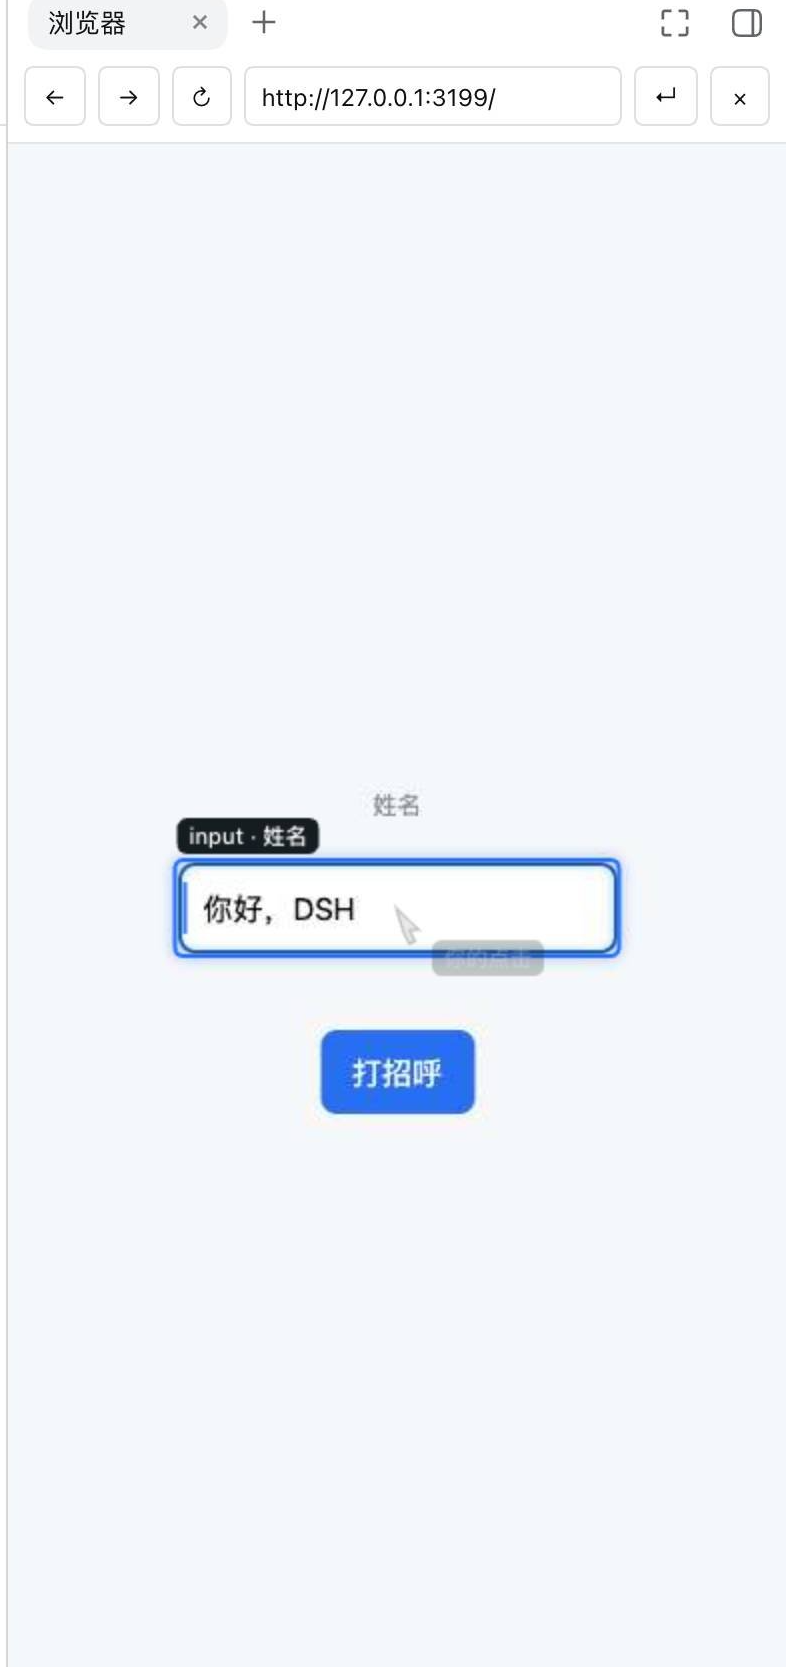
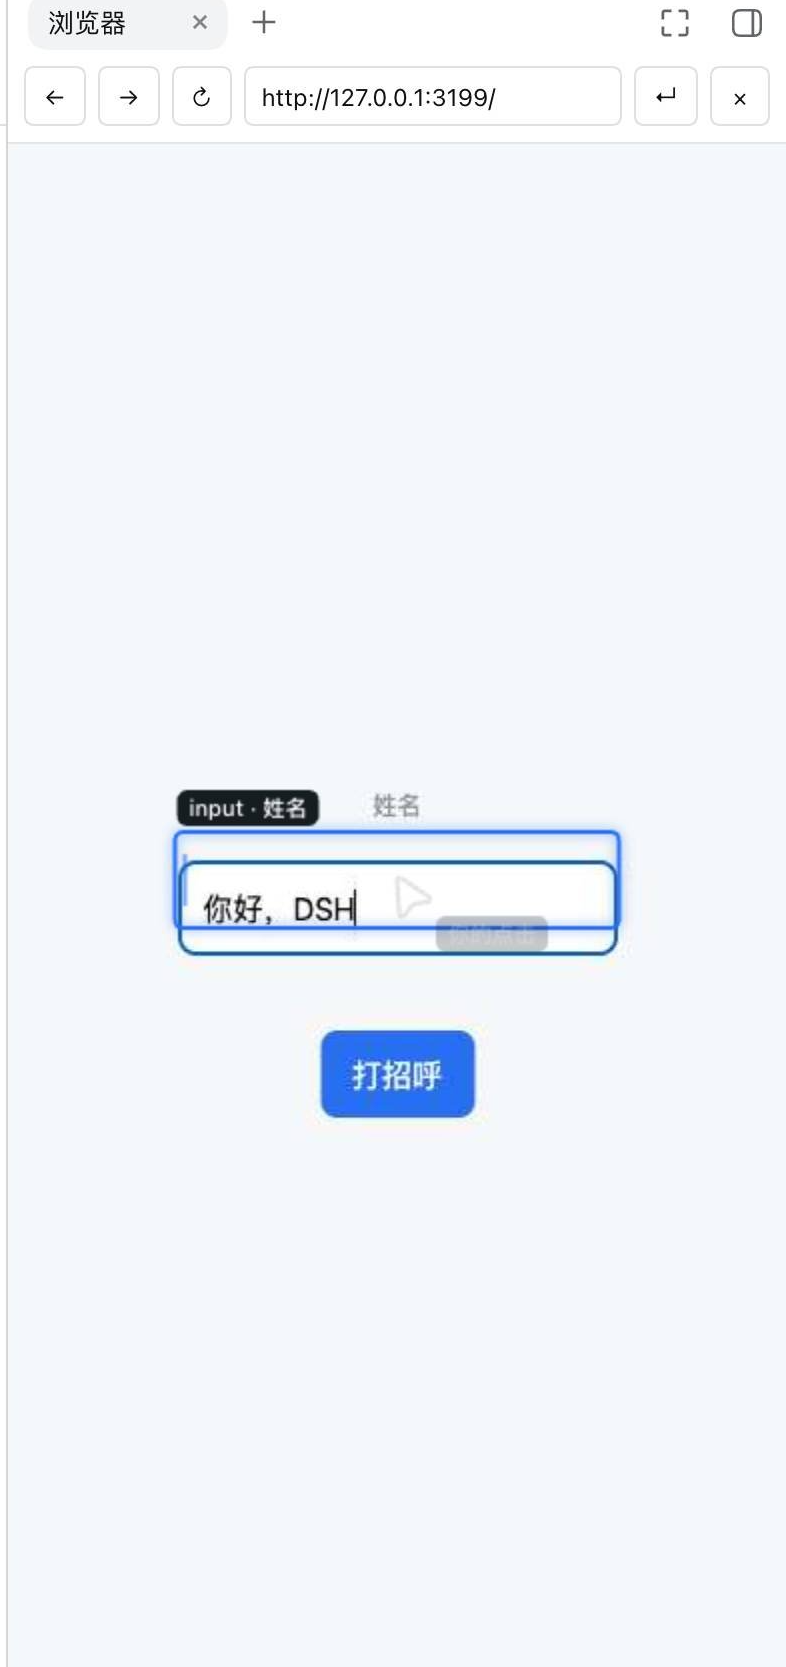
feat(browser): draw the pane pointer with the shared mouse cursor
Draw the pointer marker as the shared mouse-cursor glyph, scaled to the frame
and anchored at its tip, with a halo and a soft shadow so the marker stays
legible over light and dark pages.

Changed region(s): [[0.2137, 0.4679, 0.7939, 0.5927], [0.3969, 0.6239, 0.6107, 0.6863]]

diff --git a/client.js b/client.js
@@ -185,26 +185,31 @@ window.__ModuleLoader__.load({
       context.restore();
     }
 
-    /** The pointer glyph every desktop ships: a white arrow with a dark rim. */
-    function drawArrow(context, x, y, size, alpha) {
-      const points = [[0, 0], [0.238, 0.78], [0.412, 1.12], [0.6, 1.04], [0.42, 0.7], [0.72, 0.68]];
+    /** Shared mouse-cursor glyph, drawn with its outline so it reads on any page. */
+    const CURSOR_ICON = "M325.632 897.024c-7.168 0-14.336-1.024-21.504-3.072a73.728 73.728 0 0 1-53.76-66.56L205.824 207.36a75.1616 75.1616 0 0 1 117.248-67.584l514.56 348.672c26.112 17.92 38.4 49.152 30.72 80.384s-32.768 53.248-64.512 56.832l-250.88 29.184c-6.656 0.512-12.288 4.096-16.384 9.728s-151.04 202.752-151.04 202.752c-14.336 19.456-36.864 30.208-59.904 30.208zM281.088 177.664c-5.632 0-10.24 2.048-12.288 3.072-3.072 1.536-12.8 8.704-11.776 22.528l44.544 620.032c1.024 15.36 13.312 20.48 17.408 21.504 4.096 1.024 16.896 3.584 26.112-8.704l151.04-202.752c12.288-16.384 31.232-27.648 51.712-29.696l250.88-29.184c15.36-2.048 19.456-14.336 20.48-17.92 1.024-4.096 3.072-16.896-9.728-25.6L294.4 182.272a23.6032 23.6032 0 0 0-13.312-4.096z";
+    const CURSOR_TIP = [214, 196];
+    let cursorPath = null;
+
+    function drawCursor(context, x, y, size, alpha) {
+      if (!cursorPath) cursorPath = new Path2D(CURSOR_ICON);
+      const unit = size / 1024;
       context.save();
       context.globalAlpha = alpha;
-      context.translate(x, y);
-      context.scale(size, size);
-      context.beginPath();
-      context.moveTo(0, 0);
-      for (const [px, py] of points.slice(1)) context.lineTo(px, py);
-      context.closePath();
-      context.fillStyle = "#fff";
-      context.shadowColor = "rgba(0, 0, 0, 0.45)";
-      context.shadowBlur = 0.14;
-      context.shadowOffsetY = 0.05;
-      context.fill();
+      context.translate(x - CURSOR_TIP[0] * unit, y - CURSOR_TIP[1] * unit);
+      context.scale(unit, unit);
+      context.lineJoin = "round";
+      context.shadowColor = "rgba(12, 16, 20, 0.35)";
+      context.shadowBlur = 150;
+      context.shadowOffsetY = 60;
+      context.strokeStyle = "rgba(255, 255, 255, 0.95)";
+      context.lineWidth = 104;
+      context.stroke(cursorPath);
       context.shadowColor = "transparent";
-      context.lineWidth = 0.075;
-      context.strokeStyle = "rgba(12, 16, 20, 0.85)";
-      context.stroke();
+      context.fillStyle = "#bfbfbf";
+      context.fill(cursorPath);
+      context.strokeStyle = "rgba(23, 25, 28, 0.4)";
+      context.lineWidth = 30;
+      context.stroke(cursorPath);
       context.restore();
     }
 
@@ -296,8 +301,8 @@ window.__ModuleLoader__.load({
         const x = (pointer.fromX + (pointer.x - pointer.fromX) * eased) * scale;
         const y = (pointer.fromY + (pointer.y - pointer.fromY) * eased) * scale;
         const alpha = Math.max(0.25, 1 - Math.max(0, age - POINTER_HOLD_MS) / POINTER_FADE_MS);
-        drawArrow(context, x, y, Math.max(16, Math.min(26, canvas.width / 42)), alpha);
-        drawChip(context, pointer.label, x + 18, y + 16, alpha, canvas);
+        drawCursor(context, x, y, Math.max(28, Math.min(46, canvas.width / 17)), alpha);
+        drawChip(context, pointer.label, x + 20, y + 18, alpha, canvas);
         if (travel < 1) drawRing(context, x, y, 6 + 10 * eased, (1 - travel) * 0.5, 2);
       }
       const ripple = state.ripple;

diff --git a/README.en.md b/README.en.md
@@ -4,7 +4,7 @@
 
 - The `browser` tool runs Playwright Chromium in a Session-scoped context for automation, accessibility snapshots, and screenshots.
 - The `Browser` page in the Web right Sidebar uses the official Sidebar extension API to stream that same page live and forward pointer, keyboard, navigation, and scroll input.
-- The stream carries operation cues: Agent actions leave a pointer arrow with a caption, hovering outlines the element with its role and name, a focused field shows an outline and caret, and typed text echoes briefly.
+- The stream carries operation cues: Agent actions leave a mouse pointer with a caption, hovering outlines the element with its role and name, a focused field shows an outline and caret, and typed text echoes briefly.
 - The page reflows to the Sidebar's own size. Click, drag, scroll, double-click to select, paste, use an IME, and press Tab, arrows, or paging keys directly on the frame.
 
 The tool and Sidebar share cookies, storage, login state, and page history. Host automation remains headless by default while the Sidebar provides the visible surface. Enter passwords and MFA codes manually in the Sidebar; the tool never exports credentials.
@@ -13,7 +13,7 @@ The tool and Sidebar share cookies, storage, login state, and page history. Host
 
 ![Browser page in the right Sidebar](docs/screenshots/right-sidebar-browser.png)
 
-Figure: validation capture of a local fixture page inside the DSH Web right Sidebar, showing the focus outline, element caption, typed-text echo, and pointer arrow; see [`docs/screenshots/SOURCES.md`](docs/screenshots/SOURCES.md) for provenance and validation boundaries.
+Figure: validation capture of a local fixture page inside the DSH Web right Sidebar, showing the focus outline, element caption, typed-text echo, and mouse pointer; see [`docs/screenshots/SOURCES.md`](docs/screenshots/SOURCES.md) for provenance and validation boundaries.
 
 ## Install
 

diff --git a/docs/e2e.md b/docs/e2e.md
@@ -14,7 +14,7 @@
 12. Resize the Sidebar and verify the page reflows to its available width and height and the viewport follows. Repeat input and button clicks after resizing.
 13. Click the frame input, type a sentence, paste Chinese text, use Select All, Backspace, Tab and Enter, and verify the result in the page. Scroll over the frame and verify the inner page moves while the surrounding Harness layout remains fixed.
 14. Verify the operation cues: hovering outlines the element under the pointer and captions its role and name; clicking draws a ripple at the point and a labelled pointer; a focused input shows an outline and a blinking caret; typed text echoes briefly; dragging draws a guide line and selects text.
-15. While the Agent drives the same page, verify its click, fill, key, scroll and drag actions appear in the pane with an arrow, a caption and the affected element outline; verify a still page stops producing frames.
+15. While the Agent drives the same page, verify its click, fill, key, scroll and drag actions appear in the pane with a mouse pointer, a caption and the affected element outline; verify a still page stops producing frames.
 16. Block the stream route in a disposable profile and verify the pane falls back to one-shot captures, marks the toolbar `兼容模式`, and returns to live frames once the route answers again.
 
 The automated Playwright fixture covers the browser engine and the stream contract. Harness Web loading, right Sidebar activation, and the native attachment path are separate integration checks.

diff --git a/skills/browser-human-operation/SKILL.md b/skills/browser-human-operation/SKILL.md
@@ -14,7 +14,7 @@ Use the `browser` tool to operate the page itself. A URL is only an address for 
 3. Perform one small action using the latest returned `observation` value. After any action that changes the page, observe again before the next targeted action.
 4. Verify the visible result with a new screenshot or snapshot. Report what was actually observed.
 
-The Web right Sidebar streams the same isolated Chromium session and annotates it: your clicks, inputs, keys, scrolls, and drags appear as a label led by a pointer arrow, and the field you focus shows its outline and caption. Humans can click the rendered frame and type into it, with a click ripple, a hover outline, and a focus outline showing them where input lands. Credentials, passwords, MFA codes, and private tokens must be entered by the human in that Sidebar; never extract or request them.
+The Web right Sidebar streams the same isolated Chromium session and annotates it: your clicks, inputs, keys, scrolls, and drags appear as a label led by a mouse pointer, and the field you focus shows its outline and caption. Humans can click the rendered frame and type into it, with a click ripple, a hover outline, and a focus outline showing them where input lands. Credentials, passwords, MFA codes, and private tokens must be entered by the human in that Sidebar; never extract or request them.
 
 ## Visual interaction
 

diff --git a/README.md b/README.md
@@ -4,7 +4,7 @@
 
 - `browser` 工具使用按 Session 隔离的 Playwright Chromium，适合自动化操作、可访问性快照和截图。
 - Web 右侧栏的 `浏览器` 页面通过官方 Sidebar 扩展 API 实时串流同一个页面，并把鼠标、键盘、导航和滚动输入转发回去。
-- 画面带操作提示：Agent 的动作会留下箭头光标和说明标签，指针悬停会勾出元素并显示角色与名称，聚焦的输入框有描边和光标，键入内容会短暂回显。
+- 画面带操作提示：Agent 的动作会留下鼠标光标和说明标签，指针悬停会勾出元素并显示角色与名称，聚焦的输入框有描边和光标，键入内容会短暂回显。
 - 页面随侧栏尺寸排版。可在画面中点击、拖动、滚动、双击选词、粘贴文本、使用中文输入法和 Tab、方向键、翻页键等。
 
 工具和右侧栏共享 Cookie、Storage、登录状态与页面历史；Host 自动化仍默认无头运行，右侧栏提供可见操作面板。密码和 MFA 由用户在右侧栏手动输入，工具不会导出凭据。

diff --git a/docs/screenshots/SOURCES.md b/docs/screenshots/SOURCES.md
@@ -9,7 +9,7 @@
 文件 SHA-256：
 
 ```text
-08af7956cfb11cf36a700aa598d169fde719331f6b00c1a2d813a47c7fed94d8  right-sidebar-browser.png
+aaa196c52c8955be28a5e4484ee108a5a25a6597146bca9676d5590a2015b921  right-sidebar-browser.png
 ```
 
 截图取自本机临时 fixture 页面（`127.0.0.1` 本地端口）与合成数据，不连接真实账户或外部站点，并对整屏图像做了右侧面板裁剪；自动化引擎与串流行为由插件测试覆盖。
